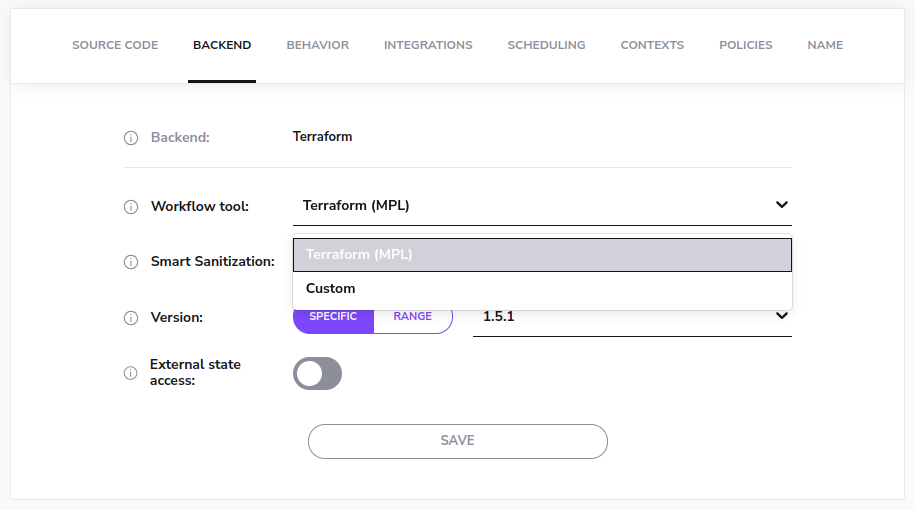
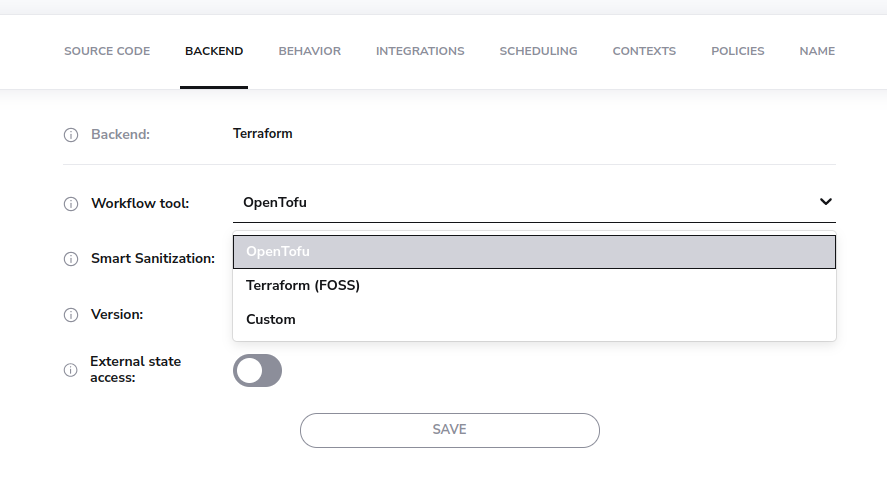
Update workflow tools page to mention OpenTofu

diff --git a/docs/vendors/terraform/workflow-tool.md b/docs/vendors/terraform/workflow-tool.md
@@ -5,7 +5,15 @@ description: >-
 
 # Workflow Tool
 
-The Workflow Tool stack setting allows you to customize the commands that are executed as part of Spacelift's Terraform workflow. This can be useful if you want to run a custom binary instead of one of the Terraform versions supported out the box by Spacelift.
+The Workflow Tool stack setting allows you to choose between three options:
+
+- OpenTofu.
+- Terraform (FOSS).
+- Custom.
+
+The OpenTofu and Terraform (FOSS) options give you out the box support for using OpenTofu and for open source versions of Terraform respectively. When you use either of those options, all you need to do is choose the version you want to use and you're good to go.
+
+The rest of this page explains the Custom option. This option allows you to customize the commands that are executed as part of Spacelift's Terraform workflow. This can be useful if you want to run a custom binary instead of one of the OpenTofu or Terraform versions supported out the box by Spacelift.
 
 ## How does it work?
 
